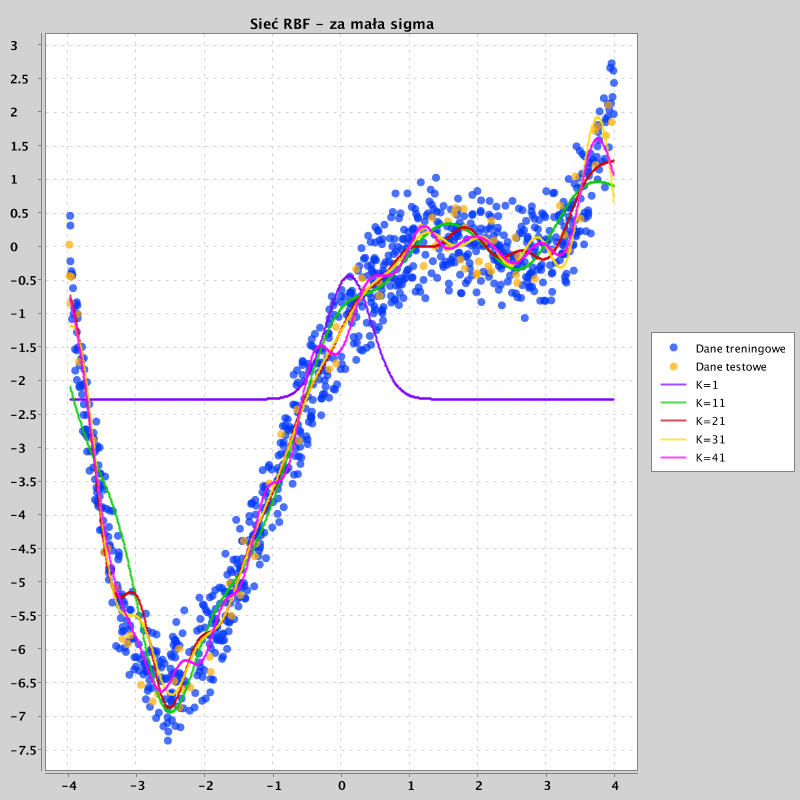
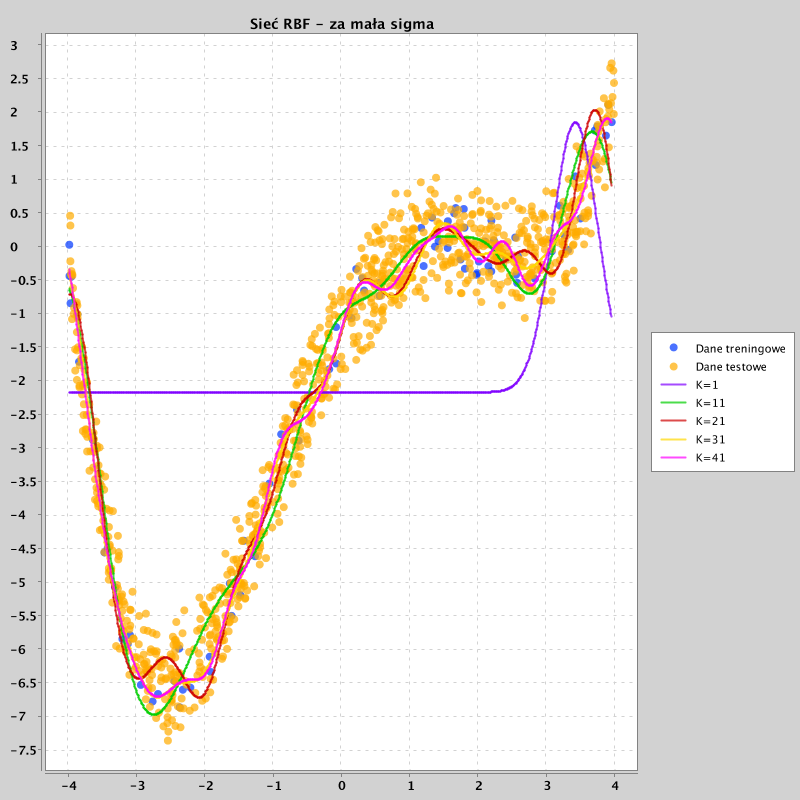
Subtask 1 task 3 approx

Changed region(s): [[0.0625, 0.0625, 0.7812, 0.9375], [0.75, 0.3125, 0.7812, 0.375]]

diff --git a/src/main/kotlin/tasks/Approximation3/DifferentNeuronNumber1.kt b/src/main/kotlin/tasks/Approximation3/DifferentNeuronNumber1.kt
@@ -12,13 +12,13 @@ import network.sigmas.TooSmallSigmaGenerator
 import utils.Charts
 
 class DifferentNeuronNumber1 : Approximation3() {
-    val numIterations = 6000
+    val numIterations = 10000
     val alpha = 0.5
     val folder = "approximation3/1/"
 
     fun singleNetwork(numRadialNeurons: Int, sigmaGenerator: SigmaGenerator) : Network {
         val network = Network(numRadialNeurons, 1, trainingData, FromDataGenerator(), sigmaGenerator, alpha)
-        network.train(numIterations) { i, error -> if (i % 500 == 0) println("Radial neurons: $numRadialNeurons | iteration: $i | error: $error")}
+        network.train(numIterations) { i, error -> if (i % 1000 == 0) println("Radial neurons: $numRadialNeurons | iteration: $i | error: $error")}
 
         return network
     }
@@ -51,12 +51,11 @@ fun main() {
     val dnn = DifferentNeuronNumber1()
     //dnn.chartOptimalSigma()
 
-    dnn.singleNetwork(11, TooBigSigmaGenerator())
-    /*val second = GlobalScope.async { dnn.chartSmallSigma() }
+    val second = GlobalScope.async { dnn.chartSmallSigma() }
     val third = GlobalScope.async { dnn.chartBigSigma() }
 
     runBlocking {
         second.await()
         third.await()
-    }*/
+    }
 }

diff --git a/src/main/kotlin/network/Network.kt b/src/main/kotlin/network/Network.kt
@@ -66,13 +66,20 @@ class Network(val numRadialNeurons : Int, var alpha : Double) {
             i += 1
             val currentError = error()
             onIteration?.invoke(i, currentError)
+            if (currentError > 30.0) {
+                break
+            }
         } while (currentError > error)
     }
 
     fun train(iters: Int,  onIteration : ((i : Int, error: Double) -> Unit)? = null) {
         for (i in 1..iters) {
             step()
-            onIteration?.invoke(i, error())
+            val error = error()
+            onIteration?.invoke(i, error)
+            if (error > 30.0) {
+                break
+            }
         }
     }
 
